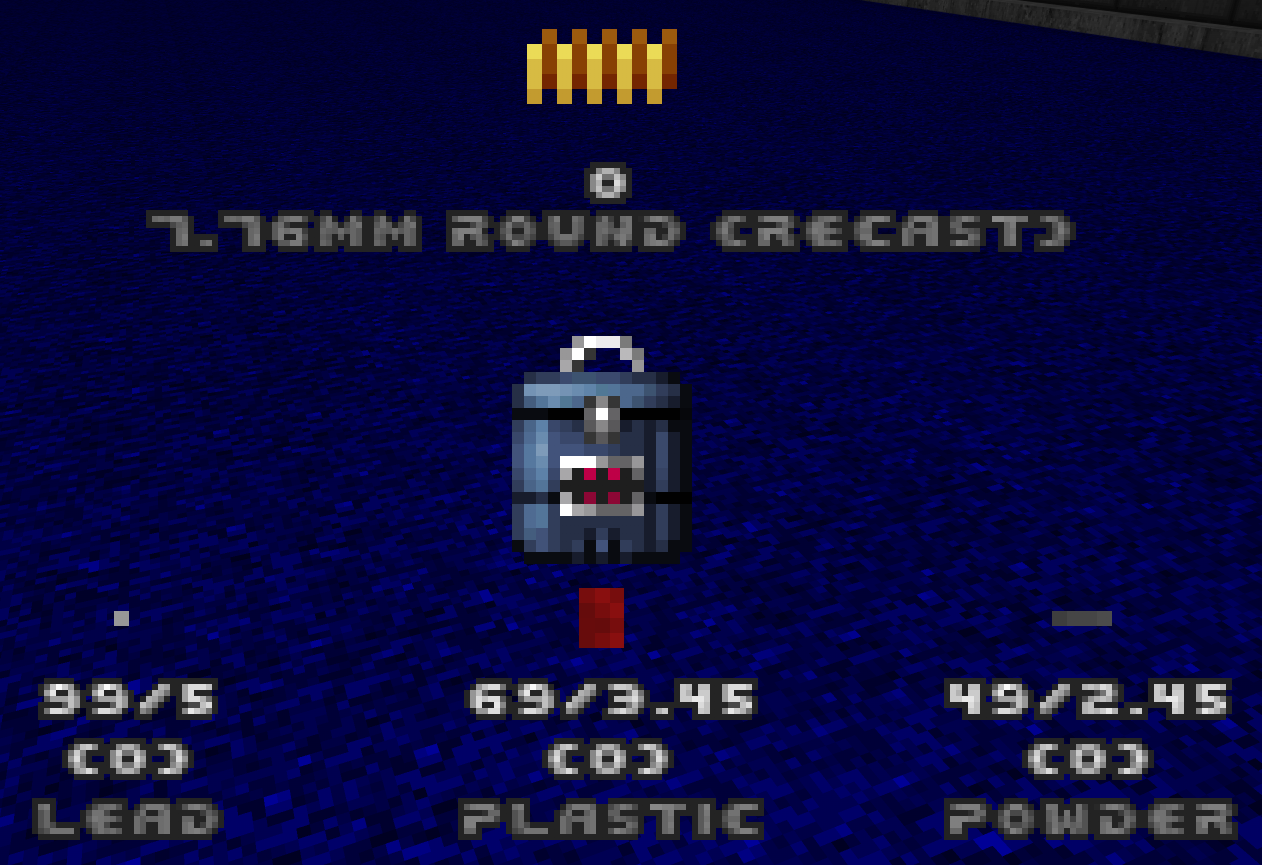
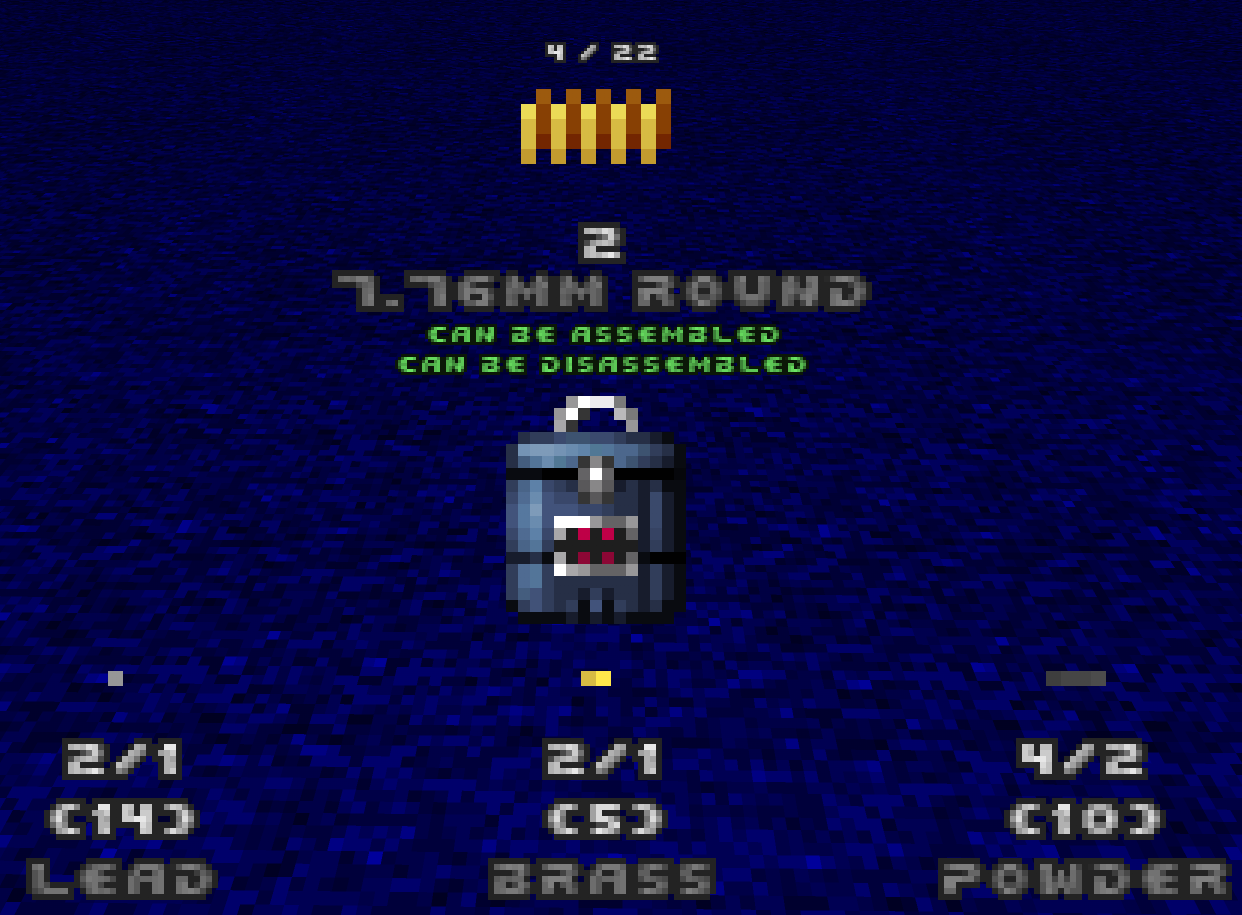
Update Readme Screenshots

diff --git a/README.md b/README.md
@@ -13,6 +13,8 @@ This mod adds a configurale device that can assemble and disassemble most rounds
 - Universal reloaders can only be found in backpacks. They are also sold by the [Merchant](https://github.com/HDest-Community/Merchant) if you have that loaded.
 
 ![example-recipe](./screenshots/example-recipe.png)
+![example-recipe-mats-needed](./screenshots/example-recipe-mats-needed.png)
+![example-recipe-rounds-needed](./screenshots/example-recipe-rounds-needed.png)
 
 ## Gunsmith Pouch
 - Loadout code is `gsp`.
